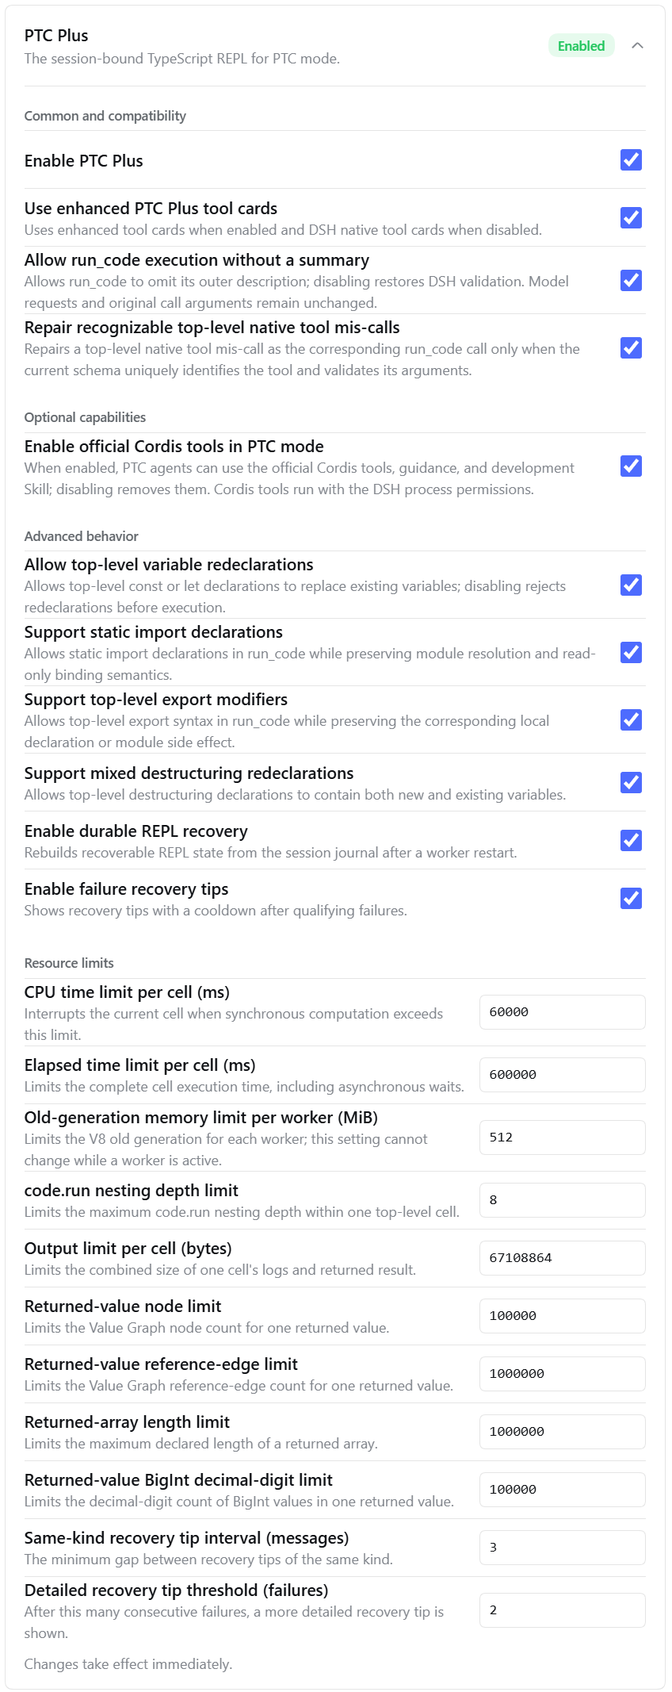
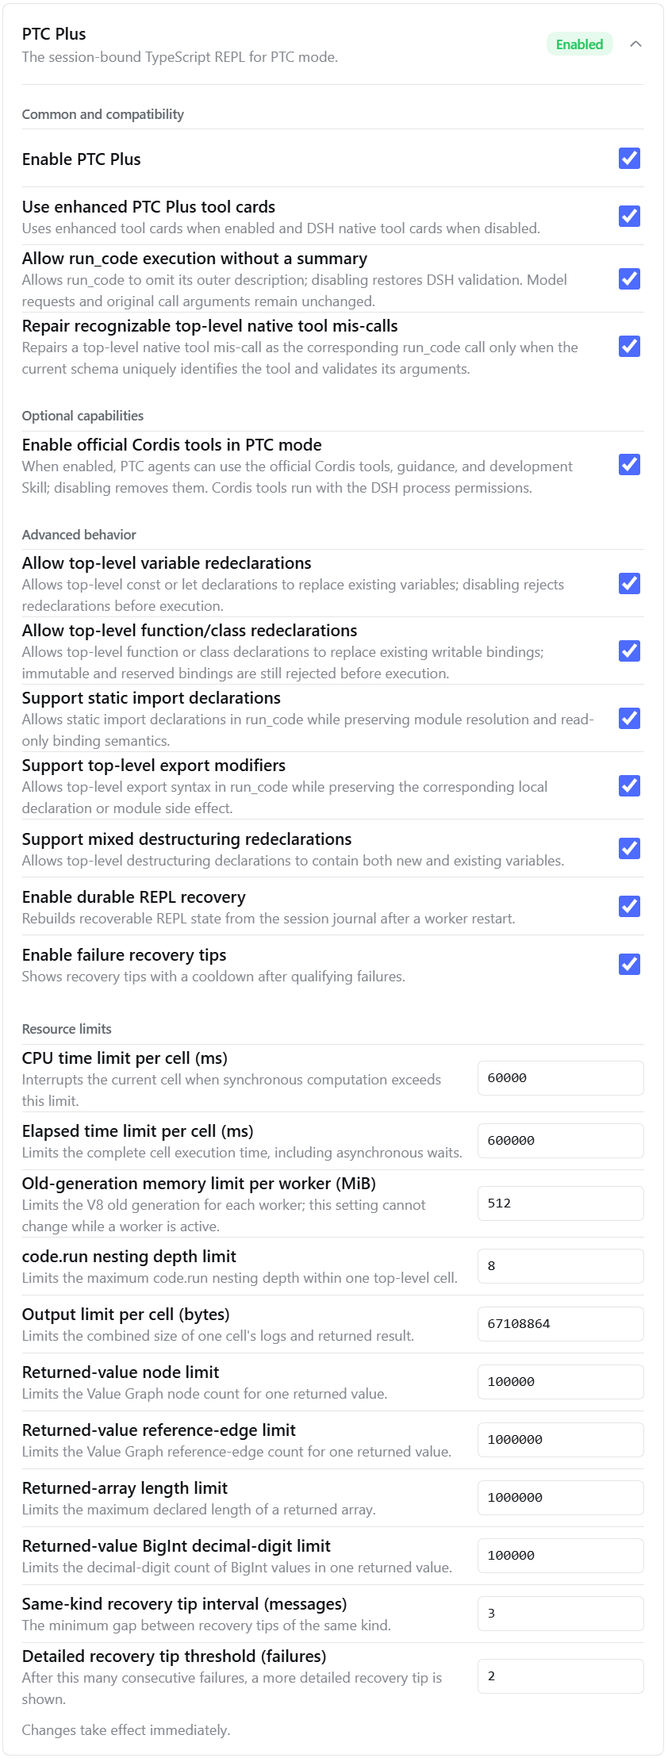
feat(repl): enable declaration replacement by default

diff --git a/internal/rejected-cell-editor.js b/internal/rejected-cell-editor.js
@@ -270,7 +270,7 @@ function editRunCodeParameterBranch(operation, operationSchema) {
 export function editRunCodeSchema() {
   return {
     name: 'edit_run_code',
-    description: 'Make a small exact or regular-expression change to the most recent eligible cell captured when this edit call is dispatched, then run the complete corrected cell. A successful edit becomes the next eligible cell. Use this only when replaying the whole cell is safe. If earlier code may already have caused an external effect, use a new run_code cell and its existing variables instead; this tool does not resume at the error location. Send exactly one atomic edits or regex_edits array, plus expected_target_call_seq only when a diagnostic supplies it to bind a validated repair to its rejected cell. Choose edits for a few unique literal fragments; choose regex_edits when one counted pattern covers repeated fragments. Every resolved range must be non-overlapping in the original cell.',
+    description: 'Make a small exact or regular-expression change to the most recent eligible cell captured when this edit call is dispatched, then run the complete corrected cell. A successful edit becomes the next eligible cell. Use this only when replaying the whole cell is safe. If earlier code may already have caused an external effect, use a new run_code cell and its existing variables instead; this tool does not resume at the error location. Send exactly one atomic edits or regex_edits array, plus expected_target_call_seq only when a diagnostic supplies it to bind a validated repair to its rejected cell. Choose edits for a few unique literal fragments; choose regex_edits when one counted pattern covers repeated fragments. regex_edits replacements use JavaScript template syntax: reference captures as $1/$<name>, never as backslash escapes such as \\1. Every resolved range must be non-overlapping in the original cell.',
     parameters: {
       type: 'object',
       oneOf: [
@@ -288,13 +288,13 @@ export function editRunCodeSchema() {
         }),
         editRunCodeParameterBranch('regex_edits', {
           type: 'array', minItems: 1, maxItems: EDIT_LIMITS.regexEdits,
-          description: 'Atomic regular-expression replacements, all matched against the original target cell.',
+          description: 'Atomic regular-expression replacements, all matched against the original target cell with JavaScript pattern and replacement semantics; each replacement is a JavaScript template (see replacement).',
           items: {
             type: 'object', additionalProperties: false,
             properties: {
-              pattern: { type: 'string', minLength: 1, description: 'JavaScript regular-expression source. Zero-length matches are rejected.' },
+              pattern: { type: 'string', minLength: 1, description: 'JavaScript regular-expression source without delimiters or flags (for example \\d+px, not /\\d+px/). Zero-length matches are rejected.' },
               flags: { type: 'string', pattern: '^(?!.*(.).*\\1)[gimsu]*$', description: 'Unique JavaScript g, i, m, s, or u flags. Global matching is always applied.' },
-              replacement: { type: 'string', description: 'JavaScript replacement template, including capture references such as $1 or $<name>.' },
+              replacement: { type: 'string', description: 'JavaScript replacement template. Reference captures as $1, $2, ... or $<name> (for example "<$1>" inserts capture 1); backslash escapes such as \\1 are NOT capture references and stay literal text; write a literal dollar sign as $$.' },
               expected_matches: { type: 'integer', minimum: 1, maximum: EDIT_LIMITS.regexMatches, description: 'Exact match count required before any replacement is applied.' },
             },
             required: ['pattern', 'flags', 'replacement', 'expected_matches'],

diff --git a/test/plugin-repl-language.test.js b/test/plugin-repl-language.test.js
@@ -48,7 +48,7 @@ test('preflights every cross-cell binding collision with one actionable diagnost
 })
 
 test('gives declaration-specific recovery for function and class collisions', async (t) => {
-  const state = fixture()
+  const state = fixture({ looseTopLevelFunctionClassRedeclarations: false })
   t.after(() => state.dispose())
 
   await state.run('declaration-collision-help', `
@@ -86,7 +86,10 @@ return RepeatedClass.value
 })
 
 test('does not suggest loose declaration replacement for strict or reserved collisions', async (t) => {
-  const strict = fixture({ looseTopLevelRedeclarations: false })
+  const strict = fixture({
+    looseTopLevelRedeclarations: false,
+    looseTopLevelFunctionClassRedeclarations: false,
+  })
   t.after(() => strict.dispose())
   await strict.run('strict-declaration-collision-help', 'function strictFunction() {}')
   const strictCollision = await strict.run(
@@ -568,7 +571,7 @@ return { first, second }
 test('replays each journal node with its recorded binding mode', async (t) => {
   const looseEvents = []
   const looseSession = { id: 'recorded-loose-mode', events: looseEvents }
-  const looseWriter = fixture()
+  const looseWriter = fixture({ looseTopLevelFunctionClassRedeclarations: false })
   const looseFirstCode = 'const switchedBinding = 1'
   const looseFirst = await looseWriter.runDurable(looseSession.id, looseFirstCode, {}, { session: looseSession })
   appendRunCodeEvents(looseEvents, 'loose-mode-first', looseFirstCode, looseFirst)
@@ -590,7 +593,10 @@ test('replays each journal node with its recorded binding mode', async (t) => {
 
   const strictEvents = []
   const strictSession = { id: 'recorded-strict-mode', events: strictEvents }
-  const strictWriter = fixture({ looseTopLevelRedeclarations: false })
+  const strictWriter = fixture({
+    looseTopLevelRedeclarations: false,
+    looseTopLevelFunctionClassRedeclarations: false,
+  })
   const strictCode = 'let strictHistorySide = 0\nconst strictHistoryBinding = 3'
   const strictResult = await strictWriter.runDurable(strictSession.id, strictCode, {}, { session: strictSession })
   assert.deepEqual(strictResult.meta.dshPtcPlus.bindingPolicy, {
@@ -861,7 +867,7 @@ return { existingPatternValue, newPatternType: typeof newPatternValue }
 })
 
 test('covers the complete REPL binding-pattern matrix and collision boundaries', async (t) => {
-  const state = fixture()
+  const state = fixture({ looseTopLevelFunctionClassRedeclarations: false })
   t.after(() => state.dispose())
 
   const initial = await state.run('repl-pattern-matrix', `

diff --git a/test/plugin-prompt-edit.test.js b/test/plugin-prompt-edit.test.js
@@ -172,14 +172,15 @@ test('presents one coherent persistent REPL contract to the model', async (t) =>
   assert.match(guidance, /instead of assuming Windows, WSL, POSIX, or a particular shell/)
   assert.doesNotMatch(guidance, /child_process|ComSpec|\.cmd|\.bat/)
   assert.match(guidance, /Repeated top-level `const`\/`let` declarations replace existing bindings/)
-  assert.match(guidance, /Repeated top-level `function`\/`class` declarations remain unsupported/)
-  assert.match(guidance, /assign a function or class expression to an existing writable binding/)
-  assert.match(guidance, /place one-off declarations inside a block/)
+  assert.match(guidance, /Repeated top-level named `function`\/`class` declarations replace existing writable bindings at their declaration position\. Do not rely on function hoisting or class TDZ; define a replacement before using that name in the cell\./)
   assert.doesNotMatch(guidance, /orientation|inventory|PTC-N002|PTC-V001/)
   assert.match(guidance, /Direct Node\/OS access remains live but is not replayed after a kernel restart/)
-  const functionClassLoose = fixture({ looseTopLevelFunctionClassRedeclarations: true })
-  t.after(() => functionClassLoose.dispose())
-  assert.match(functionClassLoose.sections[0].text({}), /Repeated top-level named `function`\/`class` declarations replace existing writable bindings at their declaration position\. Do not rely on function hoisting or class TDZ; define a replacement before using that name in the cell\./)
+  const functionClassStrict = fixture({ looseTopLevelFunctionClassRedeclarations: false })
+  t.after(() => functionClassStrict.dispose())
+  const strictFunctionClassGuidance = functionClassStrict.sections[0].text({})
+  assert.match(strictFunctionClassGuidance, /Repeated top-level `function`\/`class` declarations remain unsupported/)
+  assert.match(strictFunctionClassGuidance, /assign a function or class expression to an existing writable binding/)
+  assert.match(strictFunctionClassGuidance, /place one-off declarations inside a block/)
   const strict = fixture({ looseTopLevelRedeclarations: false })
   t.after(() => strict.dispose())
   assert.match(strict.sections[0].text({}), /Repeated top-level variable declarations fail before execution/)

diff --git a/test/plugin-lifecycle.test.js b/test/plugin-lifecycle.test.js
@@ -61,7 +61,7 @@ test('exports a Cordis config schema with validated runtime defaults', async () 
       canonicalizeToolCalls: true,
       autoDescribeRunCode: true,
       looseTopLevelRedeclarations: true,
-      looseTopLevelFunctionClassRedeclarations: false,
+      looseTopLevelFunctionClassRedeclarations: true,
       autoRewriteImports: true,
       autoStripExports: true,
       autoSplitRedeclarations: true,
@@ -732,7 +732,7 @@ test('contracts every semantic replay mismatch before continuing', async (t) => 
 })
 
 test('covers runtime worker setup and state-operation failures', async (t) => {
-  const state = fixture()
+  const state = fixture({ looseTopLevelFunctionClassRedeclarations: false })
   t.after(() => state.dispose())
   await state.runDurable('class-redeclare', 'class ExistingClass {}\nfunction existingFunction() {}')
   assert.equal((await state.run('class-redeclare', 'class ExistingClass {}')).error.kind, 'exception')

diff --git a/test/plugin-settings.test.js b/test/plugin-settings.test.js
@@ -1261,7 +1261,7 @@ test('config schema defaults expose the settings switches', async () => {
   assert.equal(defaults.value.enhancedToolView, true)
   assert.equal(defaults.value.autoDescribeRunCode, true)
   assert.equal(defaults.value.cordisToolsEnabled, false)
-  assert.equal(defaults.value.looseTopLevelFunctionClassRedeclarations, false)
+  assert.equal(defaults.value.looseTopLevelFunctionClassRedeclarations, true)
   const invalid = await Config['~standard'].validate({ enabled: 'yes' })
   assert.equal(invalid.issues[0].path[0], 'enabled')
   const ns = await Config['~standard'].validate({ enabled: false })

diff --git a/client.js b/client.js
@@ -60,7 +60,7 @@
     {
       key: "looseTopLevelFunctionClassRedeclarations",
       type: "boolean",
-      default: false,
+      default: true,
       label: "\u5141\u8BB8\u9876\u5C42\u51FD\u6570/\u7C7B\u91CD\u58F0\u660E",
       labelEn: "Allow top-level function/class redeclarations",
       description: "\u5141\u8BB8\u9876\u5C42 function \u6216 class \u58F0\u660E\u66FF\u6362\u5DF2\u6709\u7684\u53EF\u5199 binding\uFF1B\u4E0D\u53EF\u5199\u6216\u4FDD\u7559 binding \u4ECD\u4F1A\u5728\u6267\u884C\u524D\u88AB\u62D2\u7EDD\u3002",

diff --git a/internal/config-spec.js b/internal/config-spec.js
@@ -68,7 +68,7 @@ export const CONFIG_FIELDS = Object.freeze([
   {
     key: 'looseTopLevelFunctionClassRedeclarations',
     type: 'boolean',
-    default: false,
+    default: true,
     label: '允许顶层函数/类重声明',
     labelEn: 'Allow top-level function/class redeclarations',
     description: '允许顶层 function 或 class 声明替换已有的可写 binding；不可写或保留 binding 仍会在执行前被拒绝。',

diff --git a/docs/runtime-reference.md b/docs/runtime-reference.md
@@ -4,11 +4,11 @@
 
 Each top-level `run_code` input is parsed as an async function body using modern JavaScript and erasable TypeScript syntax. Top-level bindings survive across cells, block scope and top-level `await` work normally, and only explicit `return` or printed values appear in the result. Static `import` and `export` declarations are adapted when their corresponding `auto*` options are enabled; named and default imports remain live, read-only bindings across later cells. Otherwise use dynamic `import()` or `require()` and omit module declarations.
 
-The default variable policy lets a complete top-level `const` or `let` declarator replace existing names. New declarators create bindings. With `autoSplitRedeclarations` enabled, mixed new/existing destructuring is split while preserving its assignment semantics; disabling either option rejects the corresponding variable form before execution. The independent `looseTopLevelFunctionClassRedeclarations` option defaults to `false`. When enabled, a later named top-level function or class declaration replaces an existing binding only when its recorded source provenance proves it writable. Replacement commits at the declaration position, so earlier statements see the old function/class and later statements see the new one; it is not native function hoisting. Imports, reserved/private names, source `const` bindings not lowered by the variable policy, and unknown-provenance targets are rejected before execution. Same-cell and block-scope rules remain native JavaScript/TypeScript rules.
+The default variable policy lets a complete top-level `const` or `let` declarator replace existing names. New declarators create bindings. With `autoSplitRedeclarations` enabled, mixed new/existing destructuring is split while preserving its assignment semantics; disabling either option rejects the corresponding variable form before execution. The independent `looseTopLevelFunctionClassRedeclarations` option defaults to `true`. When enabled, a later named top-level function or class declaration replaces an existing binding only when its recorded source provenance proves it writable. Replacement commits at the declaration position, so earlier statements see the old function/class and later statements see the new one; it is not native function hoisting. Imports, reserved/private names, source `const` bindings not lowered by the variable policy, and unknown-provenance targets are rejected before execution. Same-cell and block-scope rules remain native JavaScript/TypeScript rules.
 
 Every capability namespace is leased to one cell. Captured `tools`, `capabilities`, `repl`, `code`, or member functions expire when that cell ends.
 
-For PTC mode requests using the code-only direct-tool projection, PTC Plus presents two tools in stable order: `run_code` and `edit_run_code`. It recognizes the current Host's `tools:ptc-only` owner section and the preceding Host's `tools:code-only` alias, with the current section authoritative if both appear. The latter tool edits the most recent eligible cell visible when the edit call is dispatched, including a cell that completed successfully but needs a small adjustment. That target remains fixed while the call is in flight; later tool settlements cannot retarget it. The edit accepts exactly one atomic `edits` or `regex_edits` array and an optional `expected_target_call_seq` precondition. Invalid, unavailable, or mismatched-target edits return `{ edited: false, reason }` without executing source or consuming the target.
+For PTC mode requests using the code-only direct-tool projection, PTC Plus presents two tools in stable order: `run_code` and `edit_run_code`. It recognizes the current Host's `tools:ptc-only` owner section and the preceding Host's `tools:code-only` alias, with the current section authoritative if both appear. The latter tool edits the most recent eligible cell visible when the edit call is dispatched, including a cell that completed successfully but needs a small adjustment. That target remains fixed while the call is in flight; later tool settlements cannot retarget it. The edit accepts exactly one atomic `edits` or `regex_edits` array and an optional `expected_target_call_seq` precondition. Invalid, unavailable, or mismatched-target edits return `{ edited: false, reason }` without executing source or consuming the target. `regex_edits[].replacement` is a JavaScript replacement template: captures are referenced as `$1`, `$2`, ... or `$<name>`, a literal dollar sign is written `$$`, and backslash forms such as `\1` are emitted literally rather than resolved as captures. `pattern` values are JavaScript regular-expression sources without delimiters.
 
 `edit_run_code` is a real registered tool call. Session history and later model requests retain its original name and delta arguments. The plugin executes the materialized source as a host-derived `run_code`, returns only the edit status, value, and logs to the model, and keeps the complete source plus journal in private replay metadata. It does not rewrite assistant history or emit edit-specific runtime context.
 
@@ -58,7 +58,7 @@ The configuration uses `ptc-plus` as the DSH plugin ID and `dsh-ptc-plus` as the
     canonicalizeToolCalls: true
     autoDescribeRunCode: true
     looseTopLevelRedeclarations: true
-    looseTopLevelFunctionClassRedeclarations: false
+    looseTopLevelFunctionClassRedeclarations: true
     autoRewriteImports: true
     autoStripExports: true
     autoSplitRedeclarations: true

diff --git a/CONTEXT.md b/CONTEXT.md
@@ -21,7 +21,7 @@ PTC Plus 是个人维护的社区实验插件。它把 DSH PTC 模式的顶层 `
 - PTC journal 为所有已结算的 program binding call 提供 `recorded-value` replay：cold replay 校验调用序列并返回 recorded canonical value，不重新 dispatch capability。这不表示外部 effect 被重做、撤销或验证。
 - live tool schema 没有 owner-proven effect/completeness/source 注解时保持 `unknown`。不能从工具名、UI rendering 或自然语言摘要推测完整性。
 - CodeRuntime request 已携带的 owner-provided program namespace 会原样保留并共享 cell lease；PTC Plus 不翻译其领域契约。与插件保留的 `capabilities`、`code` 或 `repl` 同名时 request 明确失败，不能静默合并；普通 cell 局部变量可以自然 shadow 这三个低频 namespace，需要时仍可从 `globalThis` 访问。native `tools` 不允许 shadow，因为那会切断主要能力面。当前公共 request surface 没有用于发现额外服务的 program-binding registry，因此插件不增加名称分发总线或私有 registry。
-- cell 包裹前的 AST 重写适配模块语法（cell 是 async function body，模块声明在函数体内非法），全部默认开启（`autoRewriteImports` / `autoStripExports` / `autoSplitRedeclarations`，可关闭）：原始 Program 在 lowering 与 preload 前完成 scope validation，同一 cell 的 value import 重名按模块 binding 规则拒绝；worker 按源码顺序从 session cwd 预加载并静态链接 `import`，session 未记录 cwd 时回退到 process cwd；cell 通过持久 module namespace slot 捕获结果，named/default alias 保持 live read 与只读 binding 语义；value import alias 活跃时，无法由静态 AST 保真的 direct `eval` 与 `with` 在任何 module preload 前拒绝；顶层 `export` 修饰符剥离（声明保留、default 转 `__default`、re-export 转预加载的副作用模块、type-only 擦除）。跨 cell 重声明属于 REPL 便利策略，由 `internal/repl-convenience.js` 隔离实现：`looseTopLevelRedeclarations` 独立控制顶层变量替换及混合新旧名称的解构 lowering；默认关闭的 `looseTopLevelFunctionClassRedeclarations` 只把重复的 named function/class 声明在原声明位置改写为对已有可写 binding 的赋值。不可写 import、未被变量便利策略降为 `let` 的 `const`、保留名称和来源不明的 binding 在执行前拒绝；同一 cell 和 block scope 规则仍由原始 JavaScript/TypeScript Program 验证。改写来源平行记录在 `meta.dshPtcPlusRewrites`（journal 封闭 schema）；成功改写不产生 runtime context，失败或缺少有效 journal 时才用 `tools:ptc-plus-rewrite-info` 告知不确定的后续动作。
+- cell 包裹前的 AST 重写适配模块语法（cell 是 async function body，模块声明在函数体内非法），全部默认开启（`autoRewriteImports` / `autoStripExports` / `autoSplitRedeclarations`，可关闭）：原始 Program 在 lowering 与 preload 前完成 scope validation，同一 cell 的 value import 重名按模块 binding 规则拒绝；worker 按源码顺序从 session cwd 预加载并静态链接 `import`，session 未记录 cwd 时回退到 process cwd；cell 通过持久 module namespace slot 捕获结果，named/default alias 保持 live read 与只读 binding 语义；value import alias 活跃时，无法由静态 AST 保真的 direct `eval` 与 `with` 在任何 module preload 前拒绝；顶层 `export` 修饰符剥离（声明保留、default 转 `__default`、re-export 转预加载的副作用模块、type-only 擦除）。跨 cell 重声明属于 REPL 便利策略，由 `internal/repl-convenience.js` 隔离实现：`looseTopLevelRedeclarations` 独立控制顶层变量替换及混合新旧名称的解构 lowering；默认开启的 `looseTopLevelFunctionClassRedeclarations` 只把重复的 named function/class 声明在原声明位置改写为对已有可写 binding 的赋值，显式关闭时恢复原有拒绝行为。不可写 import、未被变量便利策略降为 `let` 的 `const`、保留名称和来源不明的 binding 在执行前拒绝；同一 cell 和 block scope 规则仍由原始 JavaScript/TypeScript Program 验证。改写来源平行记录在 `meta.dshPtcPlusRewrites`（journal 封闭 schema）；成功改写不产生 runtime context，失败或缺少有效 journal 时才用 `tools:ptc-plus-rewrite-info` 告知不确定的后续动作。
 - `require(...)` 与动态导入按同一白名单分类：白名单内置模块保持 durable，其余 volatile，`worker_threads`/`cluster` 等内核控制模块在执行前以 `PTC-C002` 拒绝，非字面量参数为 dynamic module resolution。durable 只表示冷恢复可以重放已结算历史，不表示失败 cell 没有外部副作用或可以安全重试。
 
 ## Data boundaries

diff --git a/docs/adr/0013-isolate-repl-redeclaration-convenience.md b/docs/adr/0013-isolate-repl-redeclaration-convenience.md
@@ -6,7 +6,7 @@ The persistent REPL uses one worker lexical environment so later cells can refer
 
 ## Decision
 
-`internal/cell-analysis.js` owns cell parsing, binding inventory, durability classification, return rewriting, and execution preparation. Shared binding-pattern traversal lives in `internal/binding-pattern.js`. `internal/repl-convenience.js` owns two independent, optional cross-cell policies: variable replacement (including mixed destructuring lowering) and named function/class replacement. It returns executable source, collisions, redeclaration metadata, and rewrite provenance through one narrow function. The variable policy remains enabled by default; function/class replacement is disabled by default and must be enabled with `looseTopLevelFunctionClassRedeclarations`.
+`internal/cell-analysis.js` owns cell parsing, binding inventory, durability classification, return rewriting, and execution preparation. Shared binding-pattern traversal lives in `internal/binding-pattern.js`. `internal/repl-convenience.js` owns two independent, optional cross-cell policies: variable replacement (including mixed destructuring lowering) and named function/class replacement. It returns executable source, collisions, redeclaration metadata, and rewrite provenance through one narrow function. Both policies are enabled by default for the REPL workflow; function/class replacement can still be explicitly disabled with `looseTopLevelFunctionClassRedeclarations`.
 
 Only a top-level named `FunctionDeclaration` or `ClassDeclaration` whose name existed before preparation is eligible. Its catalog provenance must prove that the existing binding is writable: `let`, `var`, function, and class are writable; a source `const` is writable only when that cell's variable policy lowered it to `let`; imports and reserved/private bindings are not writable. Unknown provenance fails closed. A function is lowered at its declaration position to assignment of an anonymous function expression, so recursive reads resolve through the replaceable outer binding. A class is lowered to assignment of a named class expression, preserving its inner self-reference and ensuring a throw during class evaluation leaves the old outer value unchanged. Both forms deliberately take effect at the declaration position rather than acquiring native declaration hoisting. A terminated `void 0` statement prevents the assignment value from becoming the cell completion.
 

diff --git a/README.en.md b/README.en.md
@@ -133,7 +133,7 @@ Settings are separated into common and compatibility controls, optional capabili
 
 “Allow `run_code` execution without a summary” is on by default. Code still executes when the model omits the outer `description`; with enhanced tool cards enabled, the UI shows a fallback summary. When this setting is disabled, DSH validates the field normally. This setting does not change model requests or original call arguments.
 
-“Allow top-level function/class redeclarations” is independent from the existing variable-redeclaration switch and defaults to off. When enabled, a later cell can use an ordinary named `function` or `class` declaration to replace an existing writable binding. Replacement takes effect at the declaration position and does not emulate function hoisting. Imports, immutable `const` bindings, reserved names, and bindings with unknown provenance are still rejected before execution. Live changes affect subsequently submitted cells; cold recovery always uses the policy recorded for each cell.
+“Allow top-level function/class redeclarations” is independent from the existing variable-redeclaration switch and defaults to on. A later cell can use an ordinary named `function` or `class` declaration to replace an existing writable binding. Replacement takes effect at the declaration position and does not emulate function hoisting. Imports, immutable `const` bindings, reserved names, and bindings with unknown provenance are still rejected before execution. Explicitly disabling the setting restores the previous rejection behavior. Live changes affect subsequently submitted cells; cold recovery always uses the policy recorded for each cell.
 
 In an enabled `ptc` session, the header shows a green `PTC Plus` indicator. Hover, focus, or click it to inspect the variables, functions, classes, and imports available to the next cell and expand their bounded definition source. The card reads submitted source only; it does not inspect runtime values, trigger getters, or execute code. `run_code` and `edit_run_code` remain expandable in the conversation body. A feature marker appears only when result metadata proves that the feature affected that execution.
 
